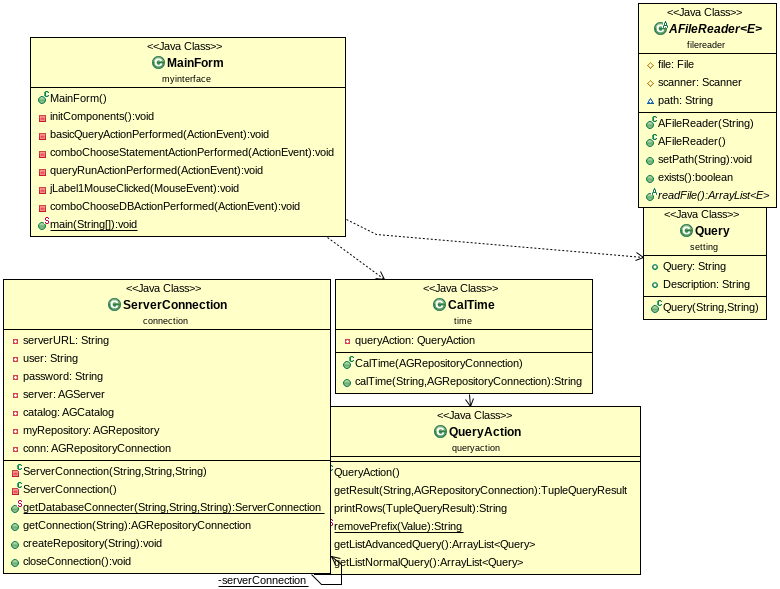
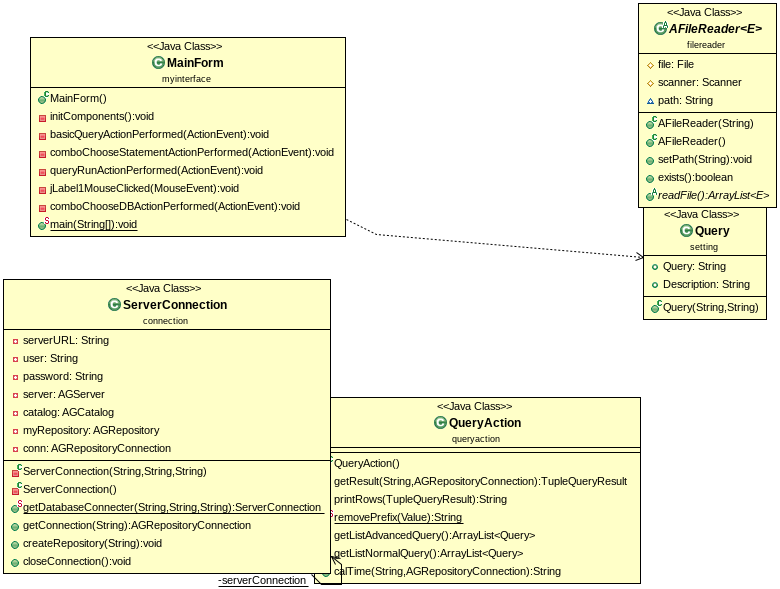
.

Changed region(s): [[0.4, 0.4584, 0.8308, 1.0]]

diff --git a/src/main/java/queryaction/QueryAction.java b/src/main/java/queryaction/QueryAction.java
@@ -88,4 +88,21 @@ public class QueryAction {
 		ArrayList<Query> listNormalQuery = reader.readFile();
 		return listNormalQuery;
     }
+    
+    /**
+	 * Tính thời gian chạy câu truy vấn thứ i đồng thời in kết quả ra màn hình
+	 * @param number Số thứ tự câu truy ấn cần tính
+	 */
+	public String calTime(String Query, AGRepositoryConnection conn) {
+		String str = "";
+
+		long startTime = System.currentTimeMillis();
+		TupleQueryResult result = getResult(Query, conn);
+		long endTime = System.currentTimeMillis();
+		long runTime = endTime - startTime;
+
+		str += printRows(result) + "\n\n------------------------------------" + "\nTotal execution time = "
+				+ runTime + "ms" + "\n";
+		return (str);
+	}
 }

diff --git a/src/main/java/myinterface/MainForm.java b/src/main/java/myinterface/MainForm.java
@@ -16,7 +16,6 @@ import connection.ServerConnection;
 import queryaction.QueryAction;
 import setting.Config;
 import setting.Query;
-import time.CalTime;
 
 /**
  *
@@ -327,9 +326,8 @@ public class MainForm extends javax.swing.JFrame {
 
         int number = comboChooseStatement.getSelectedIndex();
         QueryAction query = new QueryAction();
-        CalTime calTime = new CalTime(conn);
 
-        String result = calTime.calTime(queryStatement.getText(), conn);
+        String result = query.calTime(queryStatement.getText(), conn);
         if (result.startsWith("\n")) {
             result = "Not found result !".concat(result);
         }
